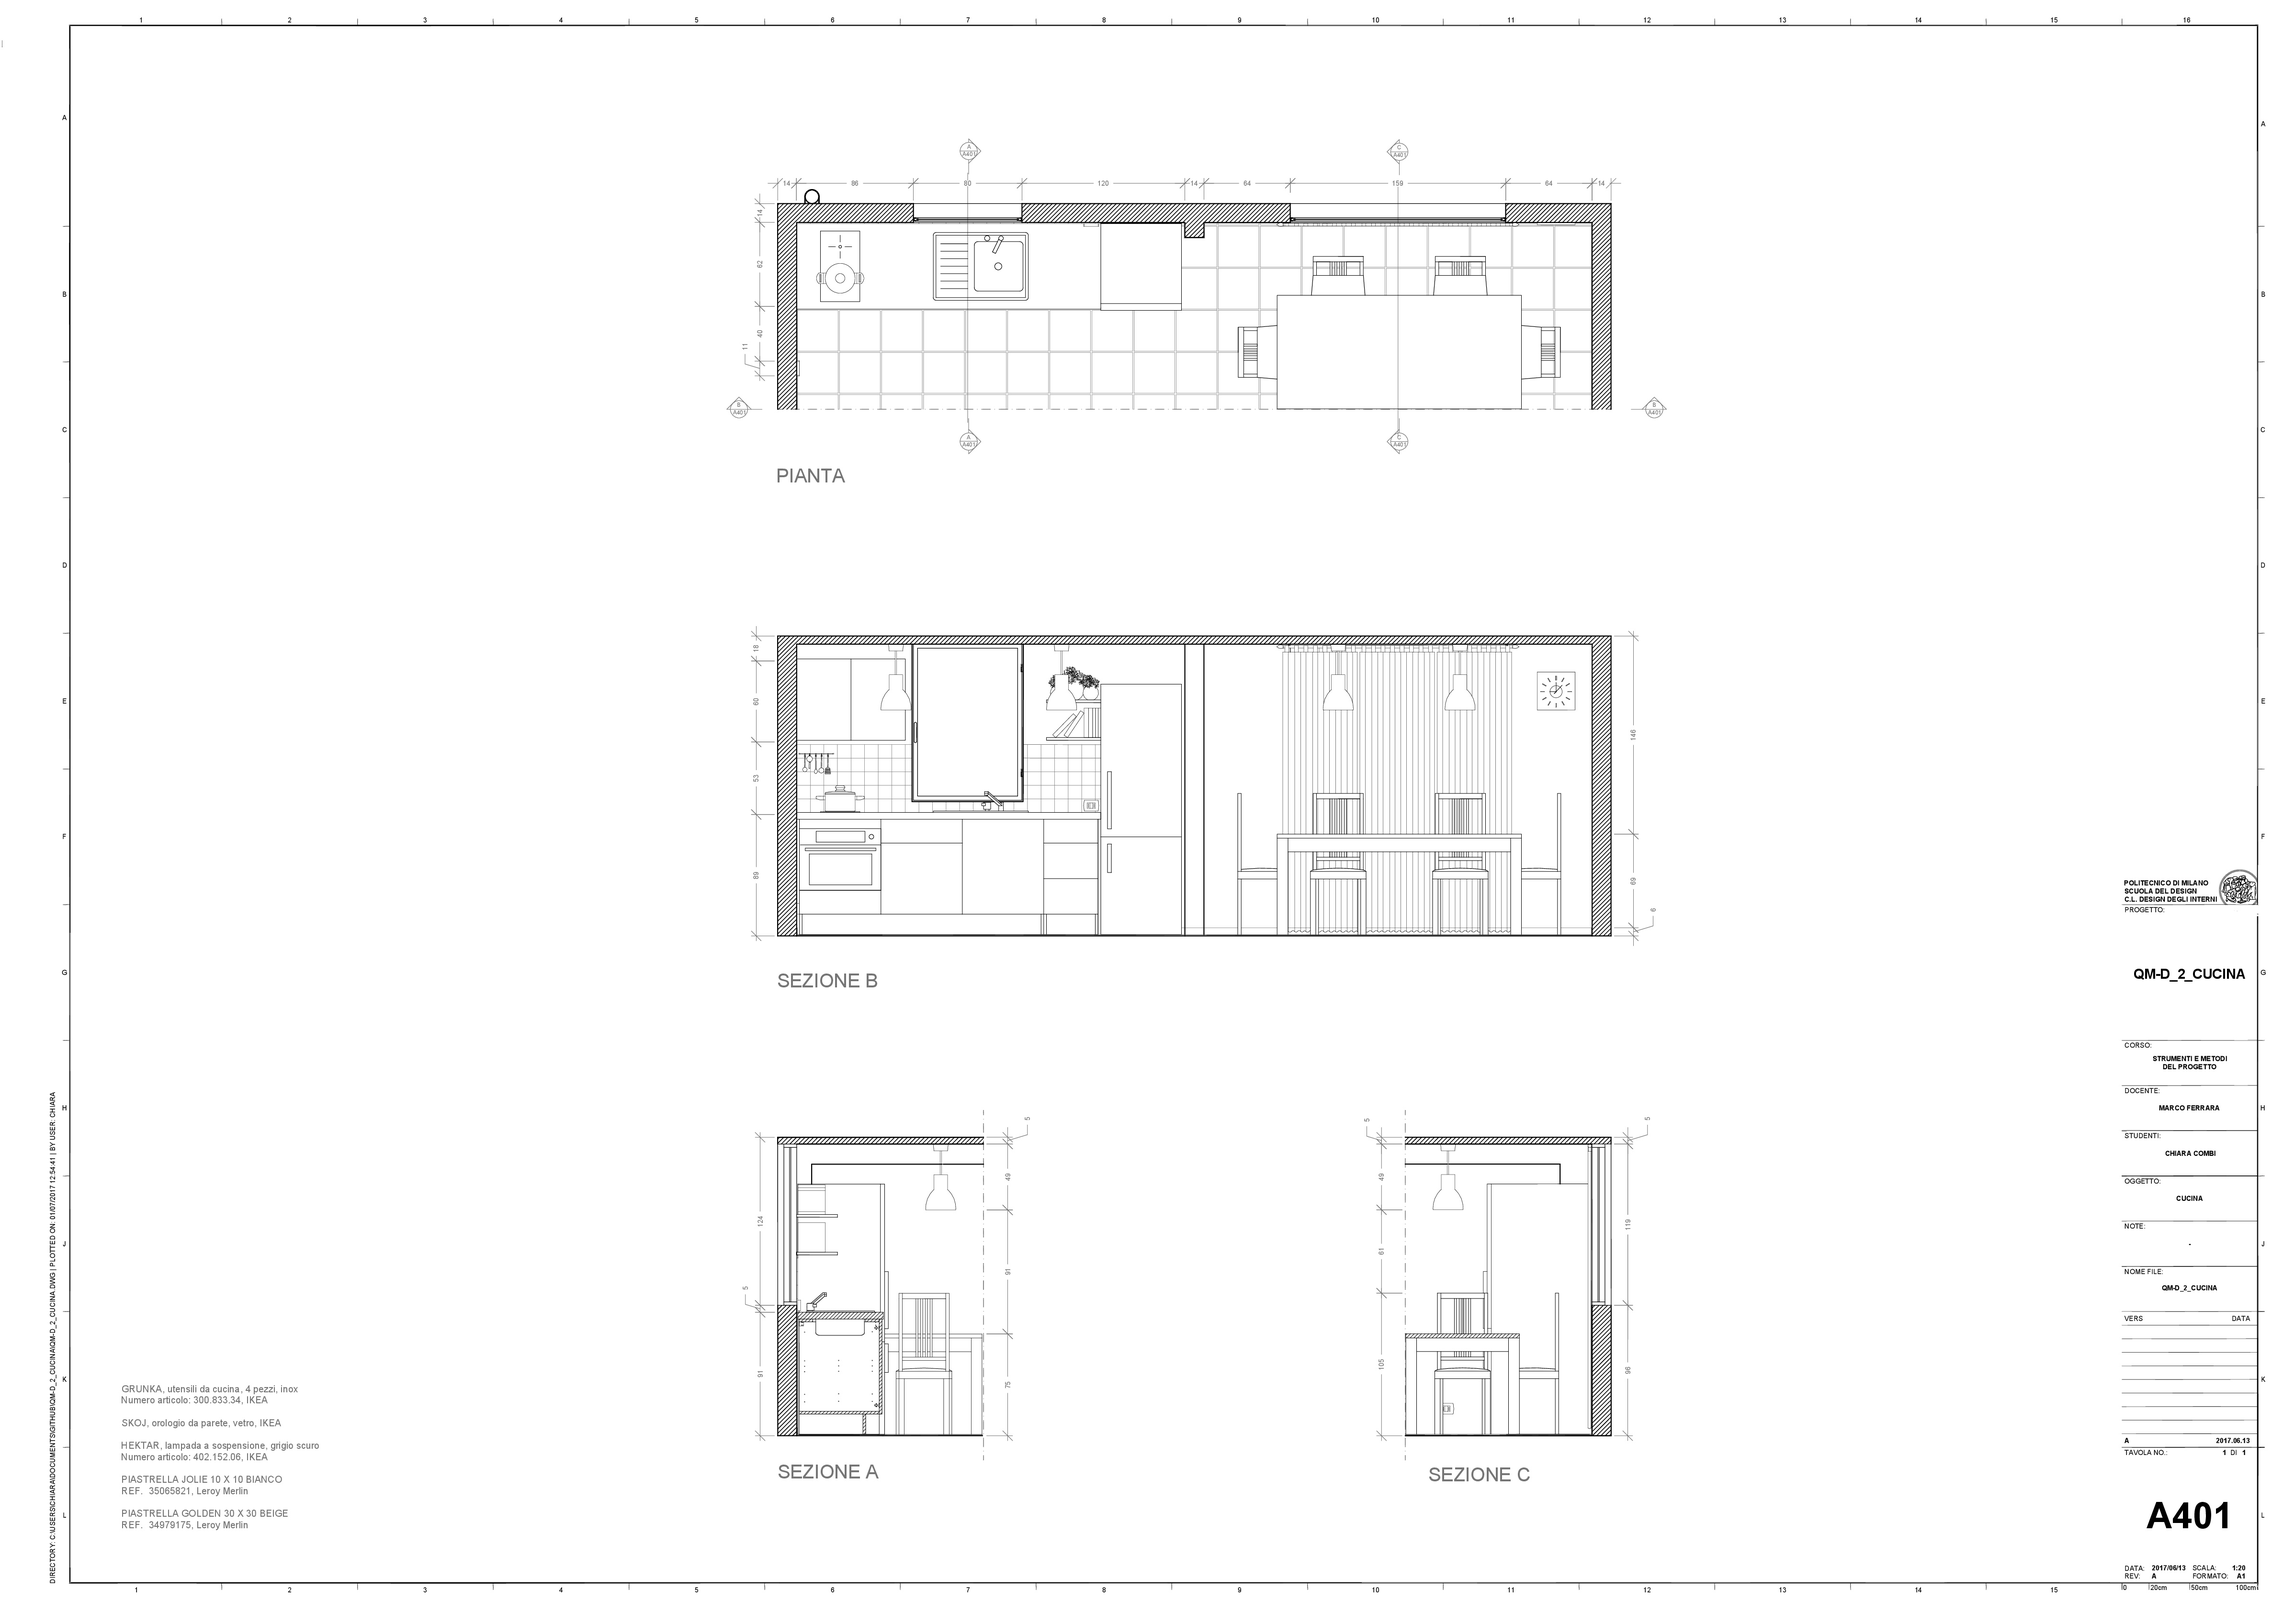
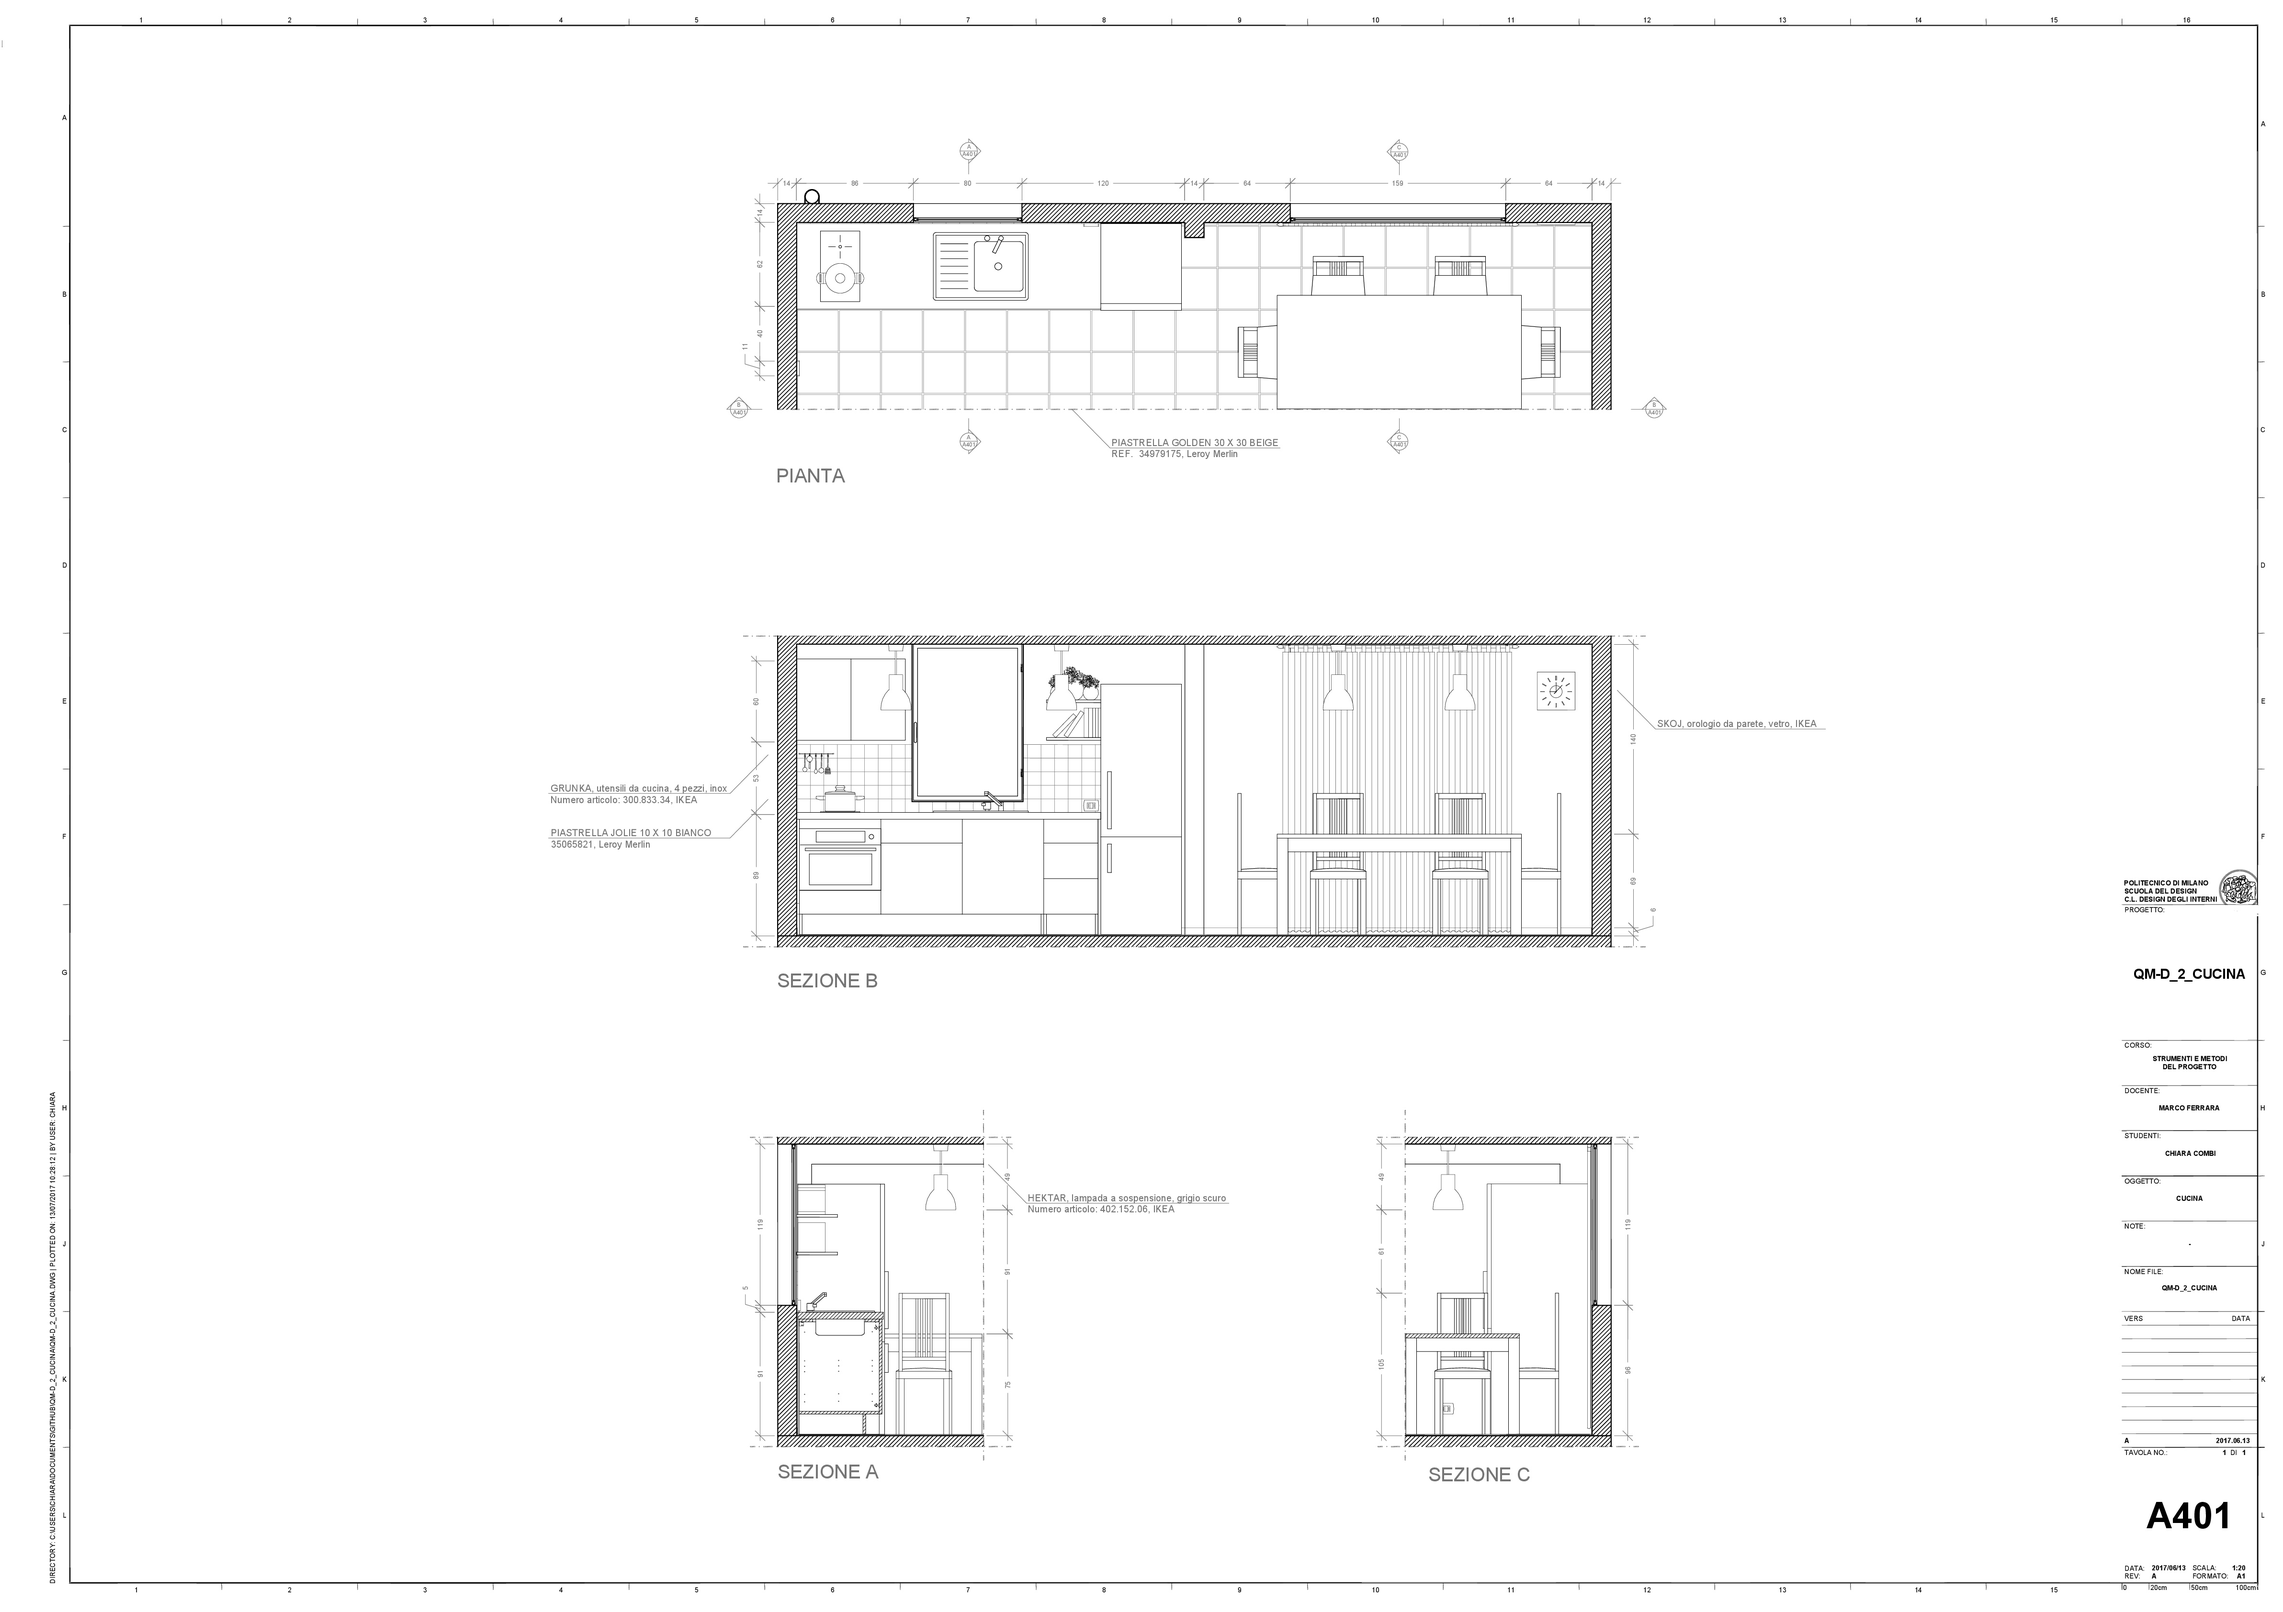
Aggiunta tavole cucina

diff --git a/projects/QM-D_2/cucina.html b/projects/QM-D_2/cucina.html
@@ -18,7 +18,7 @@
 In questa pagina viene presentato il progetto riguardante la cucina: tavole dettagliate di alcuni degli arredi principali e viste della cucina.
 </p>
 
-<div class="cucina"> </div>
+<div class="cucina"> <img src="imm/cucina.jpg"/> </div>
 
 	<p class="descrizionecamera">
 		La cucina presenta una disposizione degli arredi molto minimalista in modo da sfruttare al massimo il poco spazio disponibile per questa area della casa. Le tonalità scelte per questo ambiente restano in un range cromatico molto chiaro che varia dal beige al bianco panna: per la pavimentazione sono state impiegate delle piastrelle 30X30 cm del Leroy Merlin (REF. 34979175) mentre per la superficie anti-schizzo sono state utilizzate delle piastrelle 10X10 cm del Leroy Merlin (REF. 35065821). Gli arredi principali sono stati selezionati dal catalogo IKEA: il pensile METOD no. 799.180.45, il mobile ante e cassetto KNOXHULT no. 303.268.08, il mobile con cassetti KNOXHULT no. 703.268.06, il lavabo FYNDIG no. 091.581.85, il miscelatore LAGAN no. 100.850.27, il forno KULINARISK no. 303.009.12, la piastra induzione MOJLIG no. 302.371.38, il frigorifero KYLD no. 702.823.60. Tra gli accessori vi è il lampadario HEKTAR (no. 402.152.06, IKEA), gli utensili da cucina GRUNKA (no. 300.833.34, IKEA) e l’orologio a muro SKOJ di IKEA.
@@ -45,6 +45,9 @@ In questa pagina viene presentato il progetto riguardante la cucina: tavole dett
 		<span class="nameSx"> Larghezza: 80 cm <BR/>
 		<span class="nameSx"> Altezza: 60 cm <BR/>
 </div>
+<span class="METOD_799-180-45-A721"> <img src="imm/METOD_799-180-45-A721.jpg" /> </span>
+<span class="METOD_799-180-45-A722"> <img src="imm/METOD_799-180-45-A722.jpg" /> </span>
+<span class="METOD_799-180-45-A723"> <img src="imm/METOD_799-180-45-A723.jpg" /> </span>
 
 <div class="immDx">
 	<img src="imm/mobileconcassetti.jpg" class="imgDx"/>
@@ -69,6 +72,9 @@ In questa pagina viene presentato il progetto riguardante la cucina: tavole dett
 	<span class="nameDx"> Altezza: 90 cm <BR/>
 </div>
 
+<span class="KNOXHULT_703-268-06-A711"> <img src="imm/KNOXHULT_703-268-06-A711.jpg" /> </span>
+<span class="KNOXHULT_703-268-06-A712"> <img src="imm/KNOXHULT_703-268-06-A712.jpg" /> </span>
+
 <div class="immSx">
 	<img src="imm/mobileconante.jpg" class="imgSx"/>
 		<span class="nameSx"> KNOXHULT no. 303.268.08 </span>	<BR/> <BR/>
@@ -91,6 +97,10 @@ In questa pagina viene presentato il progetto riguardante la cucina: tavole dett
     <span class="nameSx"> Profondità: 61 cm <BR/>
     <span class="nameSx"> Altezza: 90 cm <BR/>
 </div>
+
+<span class="KNOXHULT_303-268-08-A701"> <img src="imm/KNOXHULT_303-268-08-A701.jpg" /> </span>
+<span class="KNOXHULT_303-268-08-A702"> <img src="imm/KNOXHULT_303-268-08-A702.jpg" /> </span>
+<span class="KNOXHULT_303-268-08-A703"> <img src="imm/KNOXHULT_303-268-08-A703.jpg" /> </span>
 
 <div class="mobileconcassetti"> </div>
 <div class="mobileconante"> </div>

diff --git a/projects/QM-D_2/mystyle.css b/projects/QM-D_2/mystyle.css
@@ -257,15 +257,81 @@ span.TARVA_902-196-12-002 > img{
       margin-top: 6%;
 }
 
-/* STUDIO.html */
+/* CUCINA.html */
 
-div.cucina{
-content:url(imm/cucina.jpg);
+div.cucina > img{
   position: relative;
   max-width:70%;
   max-height:70%;
   margin-left: 15%;
 }
+
+span.METOD_799-180-45-A721 > img{
+    position: relative;
+    width:45%;
+    height:45%;
+    margin-left:0%;
+    margin-top: 6%;
+}
+
+span.METOD_799-180-45-A722 > img{
+        position: relative;
+        width:45%;
+        height:45%;
+        margin-left:9%;
+        margin-top: 6%;
+}
+
+span.METOD_799-180-45-A723 > img{
+    position: relative;
+    width:45%;
+    height:45%;
+    margin-left:25%;
+    margin-top: 6%;
+}
+
+span.KNOXHULT_703-268-06-A711 > img{
+    position: relative;
+    width:45%;
+    height:45%;
+    margin-left:0%;
+    margin-top: 6%;
+}
+
+span.KNOXHULT_703-268-06-A712 > img{
+        position: relative;
+        width:45%;
+        height:45%;
+        margin-left:9%;
+        margin-top: 6%;
+}
+
+span.KNOXHULT_303-268-08-A701 > img{
+    position: relative;
+    width:45%;
+    height:45%;
+    margin-left:0%;
+    margin-top: 6%;
+}
+
+span.KNOXHULT_303-268-08-A702 > img{
+        position: relative;
+        width:45%;
+        height:45%;
+        margin-left:9%;
+        margin-top: 6%;
+}
+
+span.KNOXHULT_303-268-08-A703 > img{
+    position: relative;
+    width:45%;
+    height:45%;
+    margin-left:25%;
+    margin-top: 6%;
+}
+
+/* STUDIO.html */
+
 div.QM-D_2_STUDIO{
 content:url(imm/QM-D_2_STUDIO.jpg);
   position: relative;
